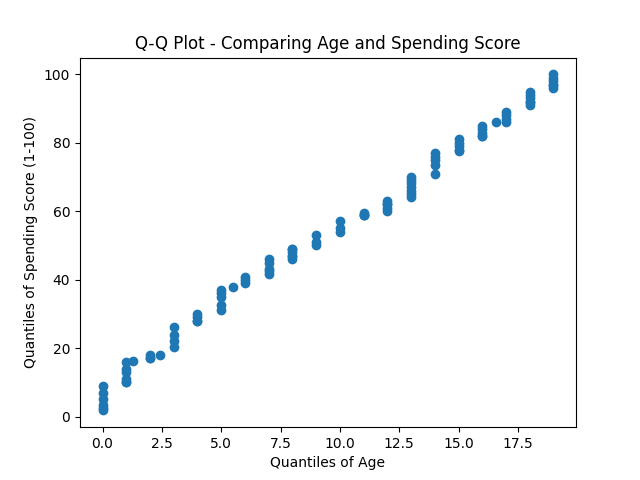
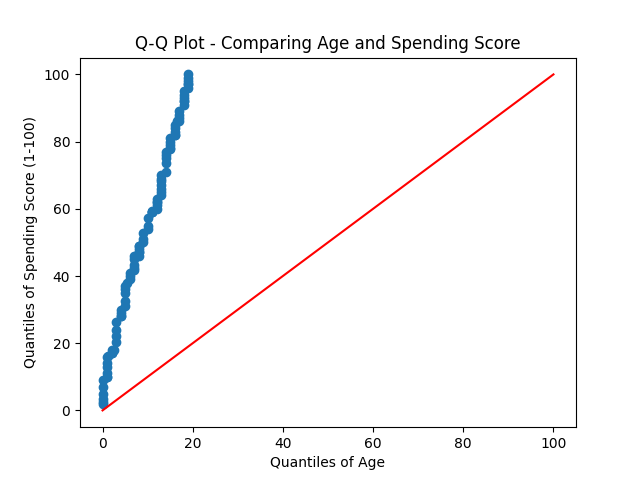
feat: add ideal line, new figure, conclusion

diff --git a/Tugas1.py b/Tugas1.py
@@ -26,4 +26,9 @@ plt.xlabel('Quantiles of Age')
 plt.ylabel('Quantiles of Spending Score (1-100)')
 plt.title('Q-Q Plot - Comparing Age and Spending Score')
 
+# Plot standard distribution line
+min_value = min(quantiles_column1.min(), quantiles_column2.min())
+max_value = max(quantiles_column1.max(), quantiles_column2.max())
+plt.plot([min_value, max_value], [min_value, max_value], color='red')
+
 plt.show()

diff --git a/README.md b/README.md
@@ -1,7 +1,11 @@
 # RekDat-QQ-Plot
-Qiu Qiu Slot Gacor Kang
+QQ Slot Gacor Kang
 
 ![](https://raw.githubusercontent.com/ahmadzaki2975/RekDat-QQ-Plot/main/Figure_1.png)
 
+## Conclusion
+All points lie above the `y = x` line (red line), inferring that the quantiles of the `Age` column (y-axis) are larger than the corresponding quantiles from the `Spending Score` column (x-axis), or in other words, the `Age` column has more extreme values compared to the `Spending Score` column.
+
 ## Data Set
 Source : [Shop Customer Data](https://www.kaggle.com/datasets/datascientistanna/customers-dataset/discussion/395405)
+
